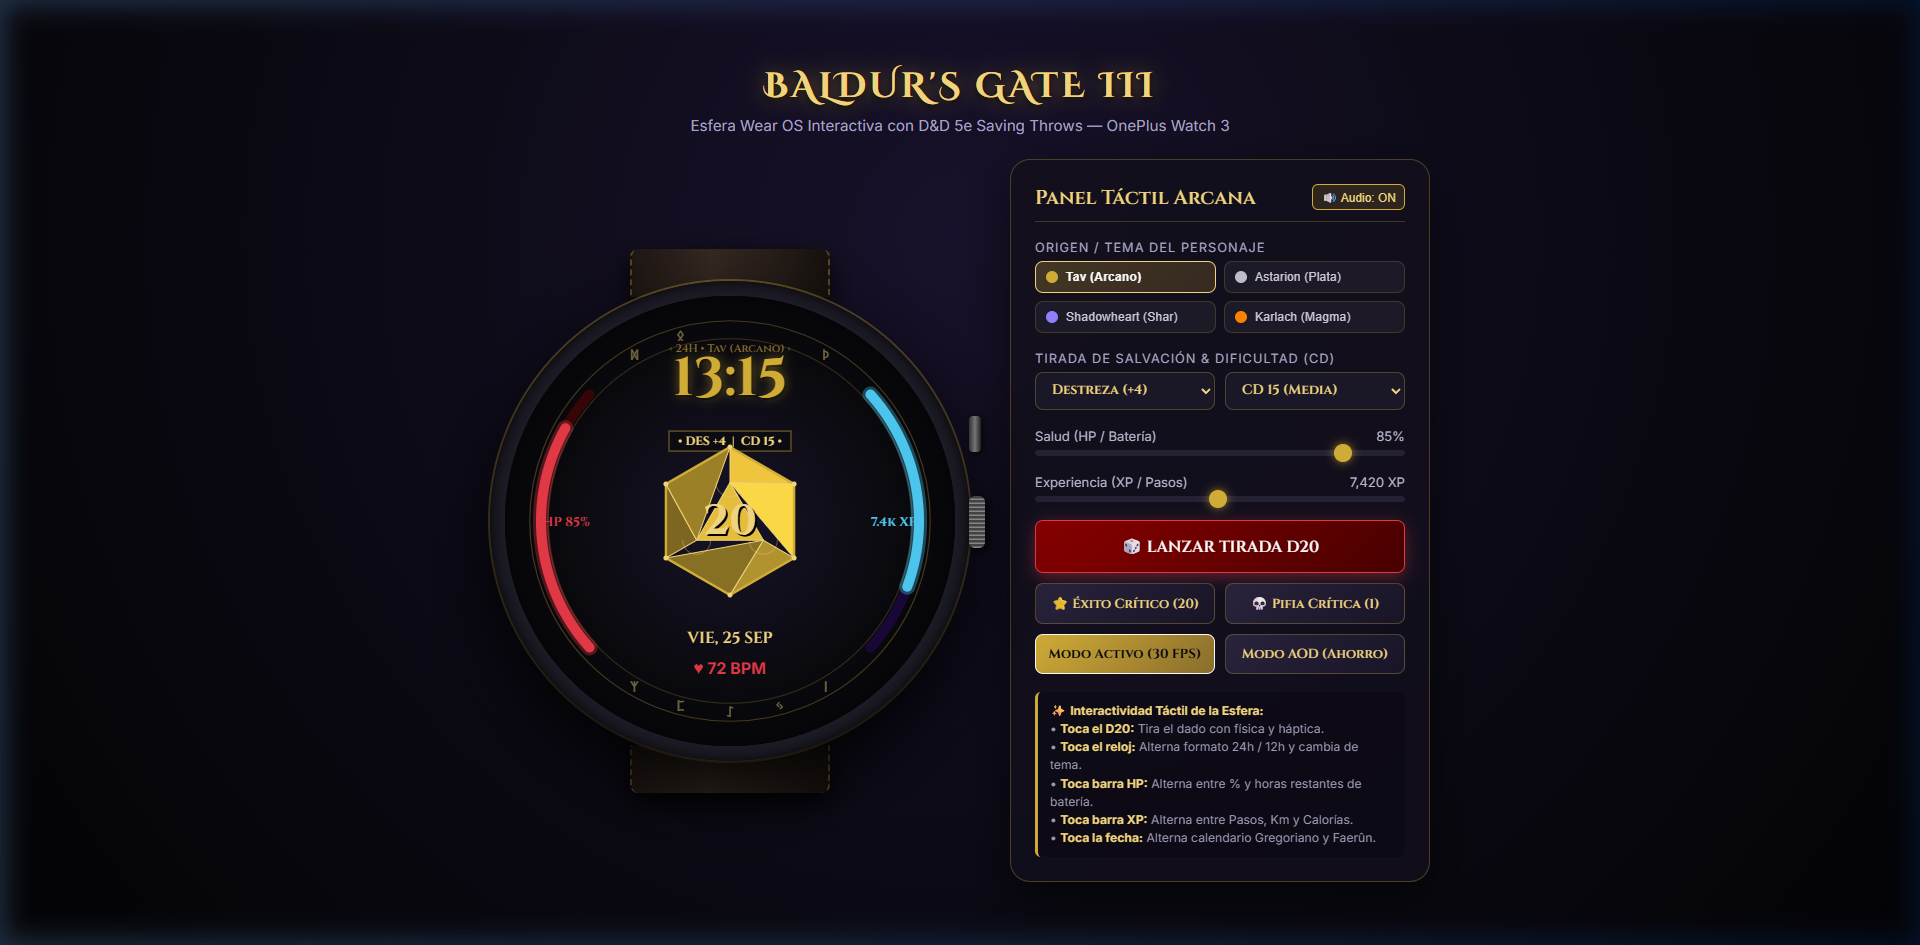
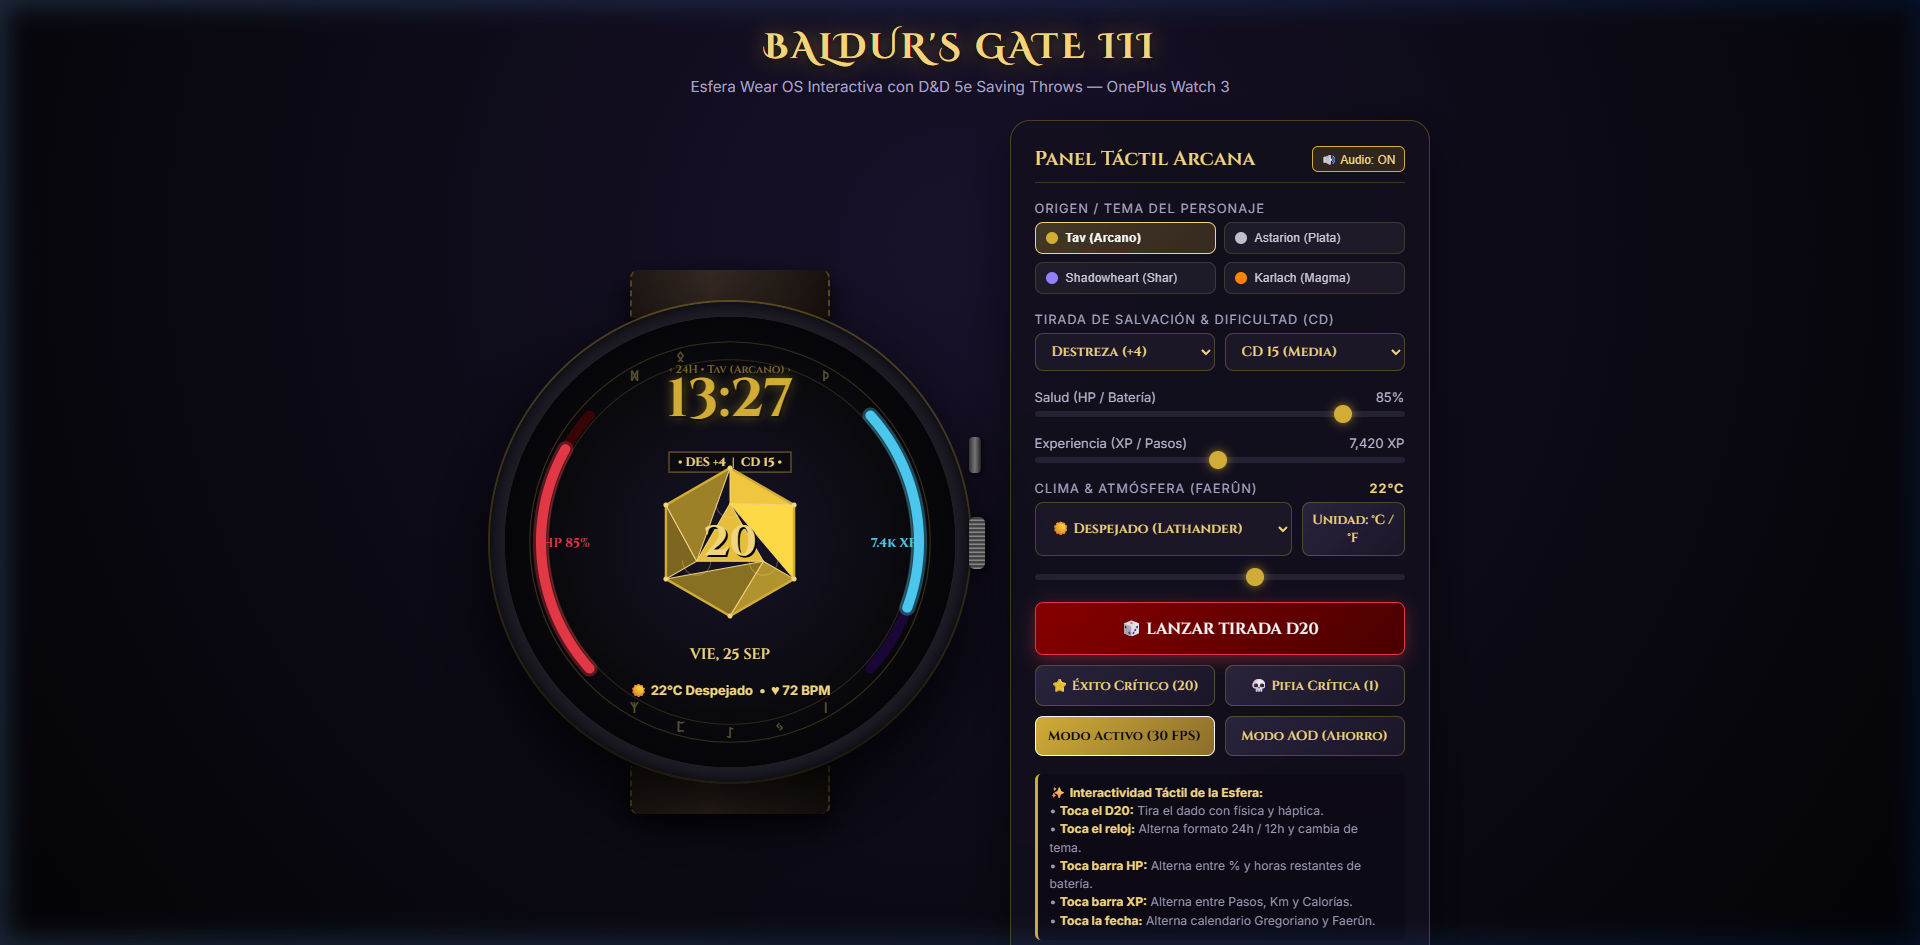
feat(weather): Add atmospheric weather widget with Faerûn lore, temp units, and AOD integration

Changed region(s): [[0.25, 0.2455, 0.75, 0.982], [0.3438, 0.0307, 0.75, 0.4296], [0.7188, 0.3989, 0.75, 0.4296]]

diff --git a/preview/index.html b/preview/index.html
@@ -443,6 +443,27 @@
                 <input type="range" id="xpSlider" min="0" max="15000" value="7420">
             </div>
 
+            <!-- Weather Controls -->
+            <div>
+                <div class="section-label">
+                    <span>Clima & Atmósfera (Faerûn)</span>
+                    <span id="tempLabel" style="color: var(--gold-light); font-weight: 600;">22°C</span>
+                </div>
+                <div class="dc-bar" style="margin-bottom: 8px;">
+                    <select id="weatherSelect">
+                        <option value="SUNNY" selected>☀ Despejado (Lathander)</option>
+                        <option value="PARTLY_CLOUDY">⛅ Parcialmente Nublado</option>
+                        <option value="CLOUDY">☁ Nublado (Costa)</option>
+                        <option value="RAINY">🌧 Lluvia (Ilmater)</option>
+                        <option value="THUNDERSTORM">⛈ Tormenta Arcana (Talos)</option>
+                        <option value="SNOWY">❄ Nieve (Auril)</option>
+                        <option value="MISTY">🌫 Niebla (Infraoscuridad)</option>
+                    </select>
+                    <button class="action-btn" id="tempUnitToggleBtn" style="padding: 8px;">Unidad: °C / °F</button>
+                </div>
+                <input type="range" id="tempSlider" min="-5" max="40" value="22">
+            </div>
+
             <!-- Action Buttons -->
             <div class="btn-grid">
                 <button class="action-btn roll-main-btn" id="rollDiceBtn">🎲 LANZAR TIRADA D20</button>
@@ -653,9 +674,27 @@
         let rotationAngle = 0;
         let lastSettledData = null;
 
-        const particles = [];
         const RUNES = ["ᚠ", "ᚢ", "ᚦ", "ᚨ", "ᚱ", "ᚲ", "ᚷ", "ᚹ", "ᚺ", "ᚾ", "ᛁ", "ᛃ", "ᛇ", "ᛈ", "ᛉ", "ᛋ", "ᛏ", "ᛒ", "ᛖ", "ᛗ", "ᛚ", "ᛜ", "ᛞ", "ᛟ"];
         const FAERUN_MONTHS = ["Millofrío", "Las Garras", "La Puesta", "Las Tormentas", "El Deshielo", "Las Flores", "Mareasol", "El Alto Sol", "El Desvanecer", "La Caída", "El Abrazo", "El Dibujo"];
+        const particles = [];
+
+        // Weather state
+        const WEATHER_CONDITIONS = {
+            SUNNY: { glyph: '☀', name: 'Despejado' },
+            PARTLY_CLOUDY: { glyph: '⛅', name: 'Nublado' },
+            CLOUDY: { glyph: '☁', name: 'Brumoso' },
+            RAINY: { glyph: '🌧', name: 'Lluvia' },
+            THUNDERSTORM: { glyph: '⛈', name: 'Tormenta' },
+            SNOWY: { glyph: '❄', name: 'Nieve' },
+            MISTY: { glyph: '🌫', name: 'Niebla' }
+        };
+        let currentTempCelsius = 22;
+        let tempUnit = 'C';
+        let currentWeatherKey = 'SUNNY';
+
+        function getTempDisplay() {
+            return tempUnit === 'C' ? `${currentTempCelsius}°C` : `${Math.round(currentTempCelsius * 9/5 + 32)}°F`;
+        }
 
         function emitParticles(type, count) {
             const cx = canvas.width / 2;
@@ -724,9 +763,14 @@
                 return;
             }
 
-            // 5. Bottom (Date)
+            // 5. Bottom (Weather on left, Calendar on right)
             if (y > 330) {
-                calendarMode = calendarMode === 'GREGORIAN' ? 'FAERUN' : 'GREGORIAN';
+                if (x < cx) {
+                    tempUnit = tempUnit === 'C' ? 'F' : 'C';
+                    document.getElementById('tempLabel').innerText = getTempDisplay();
+                } else {
+                    calendarMode = calendarMode === 'GREGORIAN' ? 'FAERUN' : 'GREGORIAN';
+                }
                 playNormalClickSound();
                 return;
             }
@@ -781,6 +825,23 @@
         document.getElementById('xpSlider').oninput = (e) => {
             stepCount = parseInt(e.target.value);
             document.getElementById('xpLabel').innerText = `${stepCount.toLocaleString()} XP`;
+        };
+
+        // Weather Listeners
+        document.getElementById('tempSlider').oninput = (e) => {
+            currentTempCelsius = parseInt(e.target.value);
+            document.getElementById('tempLabel').innerText = getTempDisplay();
+        };
+
+        document.getElementById('weatherSelect').onchange = (e) => {
+            currentWeatherKey = e.target.value;
+            playNormalClickSound();
+        };
+
+        document.getElementById('tempUnitToggleBtn').onclick = () => {
+            tempUnit = tempUnit === 'C' ? 'F' : 'C';
+            document.getElementById('tempLabel').innerText = getTempDisplay();
+            playNormalClickSound();
         };
 
         const btnActive = document.getElementById('btnActiveMode');
@@ -906,9 +967,9 @@
                 ctx.font = 'bold 32px Cinzel, serif';
                 ctx.fillText(currentDisplayValue, cx, cy + 12);
 
-                ctx.font = '16px Inter, sans-serif';
-                ctx.fillStyle = '#666';
-                ctx.fillText(`${getDateString()} • HP ${Math.round(batteryLevel * 100)}%`, cx, h * 0.84);
+                ctx.font = '15px Inter, sans-serif';
+                ctx.fillStyle = '#777';
+                ctx.fillText(`${getDateString()} • ${getTempDisplay()} • HP ${Math.round(batteryLevel * 100)}%`, cx, h * 0.84);
                 return;
             }
 
@@ -1063,16 +1124,17 @@
             ctx.fillStyle = currentDisplayValue === 20 ? theme.goldLight : (currentDisplayValue === 1 ? theme.hpRuby : theme.goldPrimary);
             ctx.fillText(currentDisplayValue, d20X, d20Y + 13);
 
-            // Bottom Status
-            ctx.font = '16px Cinzel, serif';
+            // Bottom Status: Line 1 Date
+            ctx.font = '15px Cinzel, serif';
             ctx.fillStyle = theme.goldLight;
-            ctx.fillText(getDateString(), cx, h * 0.77);
+            ctx.fillText(getDateString(), cx, h * 0.76);
 
-            ctx.font = 'bold 16px Inter, sans-serif';
-            ctx.fillStyle = theme.hpRuby;
-            ctx.globalAlpha = 0.7 + 0.3 * breathing;
-            ctx.fillText('♥ 72 BPM', cx, h * 0.84);
-            ctx.globalAlpha = 1.0;
+            // Bottom Status: Line 2 Weather & Heart Rate dual bar
+            ctx.font = 'bold 13px Inter, sans-serif';
+            ctx.fillStyle = theme.goldLight;
+            const wObj = WEATHER_CONDITIONS[currentWeatherKey];
+            const bottomCombined = `${wObj.glyph} ${getTempDisplay()} ${wObj.name}  •  ♥ 72 BPM`;
+            ctx.fillText(bottomCombined, cx, h * 0.84);
 
             // Particles
             particles.forEach(p => {

diff --git a/app/src/main/java/com/bg3/watchface/renderer/BG3CanvasRenderer.kt b/app/src/main/java/com/bg3/watchface/renderer/BG3CanvasRenderer.kt
@@ -52,6 +52,7 @@ class BG3CanvasRenderer(
     private val d20Geometry = D20Geometry()
     private val particleSystem = ParticleSystem(maxParticles = 120)
     val rollController = D20RollController(context, particleSystem)
+    val weatherManager = com.bg3.watchface.sensor.WeatherManager(initialTempCelsius = 22)
 
     // UX Customization State
     var currentTheme: ThemeVariant = ThemeVariant.CLASSIC_TAV
@@ -158,8 +159,9 @@ class BG3CanvasRenderer(
         }
         canvas.drawText(d20Text, centerX, centerY + paints.aodSubtextPaint.textSize * 0.35f, paints.aodSubtextPaint)
 
-        paints.aodSubtextPaint.textSize = width * 0.042f
-        val bottomInfo = "${zonedDateTime.format(dateFormatter).uppercase()}  •  HP ${(batteryLevel * 100).toInt()}%"
+        paints.aodSubtextPaint.textSize = width * 0.038f
+        val weatherTemp = weatherManager.weatherInfo.displayTemp
+        val bottomInfo = "${zonedDateTime.format(dateFormatter).uppercase()}  •  $weatherTemp  •  HP ${(batteryLevel * 100).toInt()}%"
         canvas.drawText(bottomInfo, centerX, height * 0.84f, paints.aodSubtextPaint)
     }
 
@@ -470,8 +472,8 @@ class BG3CanvasRenderer(
         width: Float,
         breathing: Float
     ) {
-        val dateY = height * 0.77f
-        val hrY = height * 0.85f
+        val dateY = height * 0.76f
+        val statusY = height * 0.84f
 
         val dateStr = if (calendarDisplayMode == CalendarDisplayMode.GREGORIAN) {
             zdt.format(dateFormatter).uppercase(Locale.getDefault())
@@ -480,14 +482,18 @@ class BG3CanvasRenderer(
             "${zdt.dayOfMonth} ${BG3Theme.FAERUN_MONTHS[monthIdx].uppercase()}"
         }
 
-        paints.subtextPaint.textSize = width * 0.038f
+        paints.subtextPaint.textSize = width * 0.036f
         paints.subtextPaint.color = currentTheme.goldLight
         canvas.drawText(dateStr, cx, dateY, paints.subtextPaint)
 
-        paints.heartRatePaint.textSize = width * 0.036f
-        paints.heartRatePaint.color = currentTheme.hpRuby
-        paints.heartRatePaint.alpha = (180 + (75 * breathing)).toInt().coerceIn(0, 255)
-        canvas.drawText("♥ 72 BPM", cx, hrY, paints.heartRatePaint)
+        // Weather & Heart Rate dual status
+        val weather = weatherManager.weatherInfo
+        val weatherText = "${weather.condition.glyph} ${weather.displayTemp} ${weather.condition.standardName}"
+        val bottomCombined = "$weatherText  •  ♥ 72 BPM"
+
+        paints.heartRatePaint.textSize = width * 0.032f
+        paints.heartRatePaint.color = currentTheme.goldLight
+        canvas.drawText(bottomCombined, cx, statusY, paints.heartRatePaint)
     }
 
     override fun renderHighlightLayer(canvas: Canvas, bounds: Rect, zonedDateTime: ZonedDateTime) {}
@@ -521,7 +527,7 @@ class BG3CanvasRenderer(
                 ty < height * 0.28f -> {
                     timeDisplayMode = if (timeDisplayMode == TimeDisplayMode.FORMAT_24H) TimeDisplayMode.FORMAT_12H else TimeDisplayMode.FORMAT_24H
                     currentTheme = currentTheme.next()
-                    radialBackgroundShader = null // reset shader for new theme colors
+                    radialBackgroundShader = null
                     invalidate()
                 }
 
@@ -541,9 +547,13 @@ class BG3CanvasRenderer(
                     invalidate()
                 }
 
-                // 6. Bottom Tap -> Toggle Gregorian / Faerûn Calendar
-                ty > height * 0.73f -> {
-                    calendarDisplayMode = if (calendarDisplayMode == CalendarDisplayMode.GREGORIAN) CalendarDisplayMode.FAERUN_LORE else CalendarDisplayMode.GREGORIAN
+                // 6. Bottom Tap -> Left side toggles Weather unit/condition, Right side toggles Calendar
+                ty > height * 0.72f -> {
+                    if (tx < cx) {
+                        weatherManager.toggleUnit()
+                    } else {
+                        calendarDisplayMode = if (calendarDisplayMode == CalendarDisplayMode.GREGORIAN) CalendarDisplayMode.FAERUN_LORE else CalendarDisplayMode.GREGORIAN
+                    }
                     invalidate()
                 }
             }

diff --git a/app/src/main/java/com/bg3/watchface/model/WeatherInfo.kt b/app/src/main/java/com/bg3/watchface/model/WeatherInfo.kt
@@ -1,0 +1,43 @@
+package com.bg3.watchface.model
+
+/**
+ * Atmospheric weather conditions with Faerûn / BG3 lore descriptions and icons.
+ */
+enum class WeatherCondition(
+    val glyph: String,
+    val standardName: String,
+    val faerunLoreName: String
+) {
+    SUNNY("☀", "Despejado", "Sol de Lathander"),
+    PARTLY_CLOUDY("⛅", "Parcialmente Nublado", "Vientos de Selûne"),
+    CLOUDY("☁", "Nublado", "Brumas de la Costa"),
+    RAINY("🌧", "Lluvia", "Lágrimas de Ilmater"),
+    THUNDERSTORM("⛈", "Tormenta", "Furia de Talos"),
+    SNOWY("❄", "Nieve", "Aliento de Auril"),
+    MISTY("🌫", "Niebla", "Niebla de la Infraoscuridad");
+
+    fun next(): WeatherCondition {
+        val vals = values()
+        return vals[(ordinal + 1) % vals.size]
+    }
+}
+
+enum class TempUnit {
+    CELSIUS,
+    FAHRENHEIT
+}
+
+/**
+ * Data class representing current weather conditions on the watch face.
+ */
+data class WeatherInfo(
+    val tempCelsius: Int = 22,
+    val condition: WeatherCondition = WeatherCondition.SUNNY,
+    val unit: TempUnit = TempUnit.CELSIUS
+) {
+    val displayTemp: String
+        get() = when (unit) {
+            TempUnit.CELSIUS -> "$tempCelsius°C"
+            TempUnit.FAHRENHEIT -> "${(tempCelsius * 9 / 5) + 32}°F"
+        }
+}

diff --git a/app/src/main/java/com/bg3/watchface/sensor/WeatherManager.kt b/app/src/main/java/com/bg3/watchface/sensor/WeatherManager.kt
@@ -1,0 +1,37 @@
+package com.bg3.watchface.sensor
+
+import com.bg3.watchface.model.TempUnit
+import com.bg3.watchface.model.WeatherCondition
+import com.bg3.watchface.model.WeatherInfo
+
+/**
+ * Manager handling real-time or complication-driven weather conditions.
+ */
+class WeatherManager(
+    initialTempCelsius: Int = 21,
+    initialCondition: WeatherCondition = WeatherCondition.SUNNY
+) {
+
+    var weatherInfo: WeatherInfo = WeatherInfo(
+        tempCelsius = initialTempCelsius,
+        condition = initialCondition,
+        unit = TempUnit.CELSIUS
+    )
+        private set
+
+    fun toggleUnit(): TempUnit {
+        val newUnit = if (weatherInfo.unit == TempUnit.CELSIUS) TempUnit.FAHRENHEIT else TempUnit.CELSIUS
+        weatherInfo = weatherInfo.copy(unit = newUnit)
+        return newUnit
+    }
+
+    fun cycleCondition(): WeatherCondition {
+        val nextCond = weatherInfo.condition.next()
+        weatherInfo = weatherInfo.copy(condition = nextCond)
+        return nextCond
+    }
+
+    fun updateWeather(tempCelsius: Int, condition: WeatherCondition) {
+        weatherInfo = weatherInfo.copy(tempCelsius = tempCelsius, condition = condition)
+    }
+}

diff --git a/README.md b/README.md
@@ -37,15 +37,28 @@ Esfera de reloj interactiva, animada y de alta fidelidad inspirada en el univers
 3. **Shadowheart (Clériga de Shar)**: Ocaso crepuscular (#9381FF), cian de engaño (#00F5D4) y noche abisal.
 4. **Karlach (Corazón Infernal)**: Bronce forjado (#FF8500), magma ardiente (#D90429) y ascuas de motor infernal.
 
-### 3. Zonas Táctiles Multiacción (Multi-Zone Touch UX)
+### 3. Widget de Información del Tiempo y Atmósfera
+- **Temperatura en Tiempo Real**: Visualización en grados Celsius o Fahrenheit (`22°C` / `72°F`).
+- **Condiciones y Lore de Faerûn**: Iconos atmosféricos y descripciones inspiradas en los Reinos Olvidados:
+  - ☀ **Despejado** (*Sol de Lathander*)
+  - ⛅ **Parcialmente Nublado** (*Vientos de Selûne*)
+  - ☁ **Nublado** (*Brumas de la Costa de la Espada*)
+  - 🌧 **Lluvia** (*Lágrimas de Ilmater*)
+  - ⛈ **Tormenta Arcana** (*Furia de Talos*)
+  - ❄ **Nieve** (*Aliento de Auril*)
+  - 🌫 **Niebla** (*Niebla de la Infraoscuridad*)
+- **Integración AOD**: Muestra la temperatura de manera minimalista junto a la fecha y la batería en el modo de pantalla siempre activa.
+
+### 4. Zonas Táctiles Multiacción (Multi-Zone Touch UX)
 - **Tocar D20**: Dispara la tirada animada con física de temblor, desaceleración y respuesta háptica.
 - **Tocar Insignia de CD**: Alterna la habilidad activa (FUE -> DES -> CON -> INT -> SAB -> CAR).
 - **Tocar Reloj Superior**: Alterna formato 24h / 12h y rota el tema de compañero.
 - **Tocar Barra Izquierda (HP)**: Alterna entre Porcentaje de Batería (`HP 85%`) y Horas Estimadas Restantes (`18h BAT`).
 - **Tocar Barra Derecha (XP)**: Alterna entre Pasos (`7.4k XP`), Distancia (`5.2 km`) y Calorías (`340 kcal`).
-- **Tocar Sección Inferior**: Alterna entre el calendario gregoriano (`VIE, 25 SEP`) y el calendario oficial de los Reinos Olvidados / Faerûn (`25 EL DESVANECER`).
+- **Tocar Sección Inferior (Izquierda)**: Alterna la unidad de temperatura entre **Celsius (°C)** y **Fahrenheit (°F)**.
+- **Tocar Sección Inferior (Derecha)**: Alterna entre el calendario gregoriano (`VIE, 25 SEP`) y el calendario oficial de los Reinos Olvidados / Faerûn (`25 EL DESVANECER`).
 
-### 4. Audio Procedural (Simulador Web)
+### 5. Audio Procedural (Simulador Web)
 - Generación de sonido mediante la **Web Audio API** integrada (sin archivos de audio externos pesados):
   - Traqueteo de dados de hueso y metal al rodar.
   - Arpegio triunfal en Do Mayor al sacar Éxito Crítico (20).
